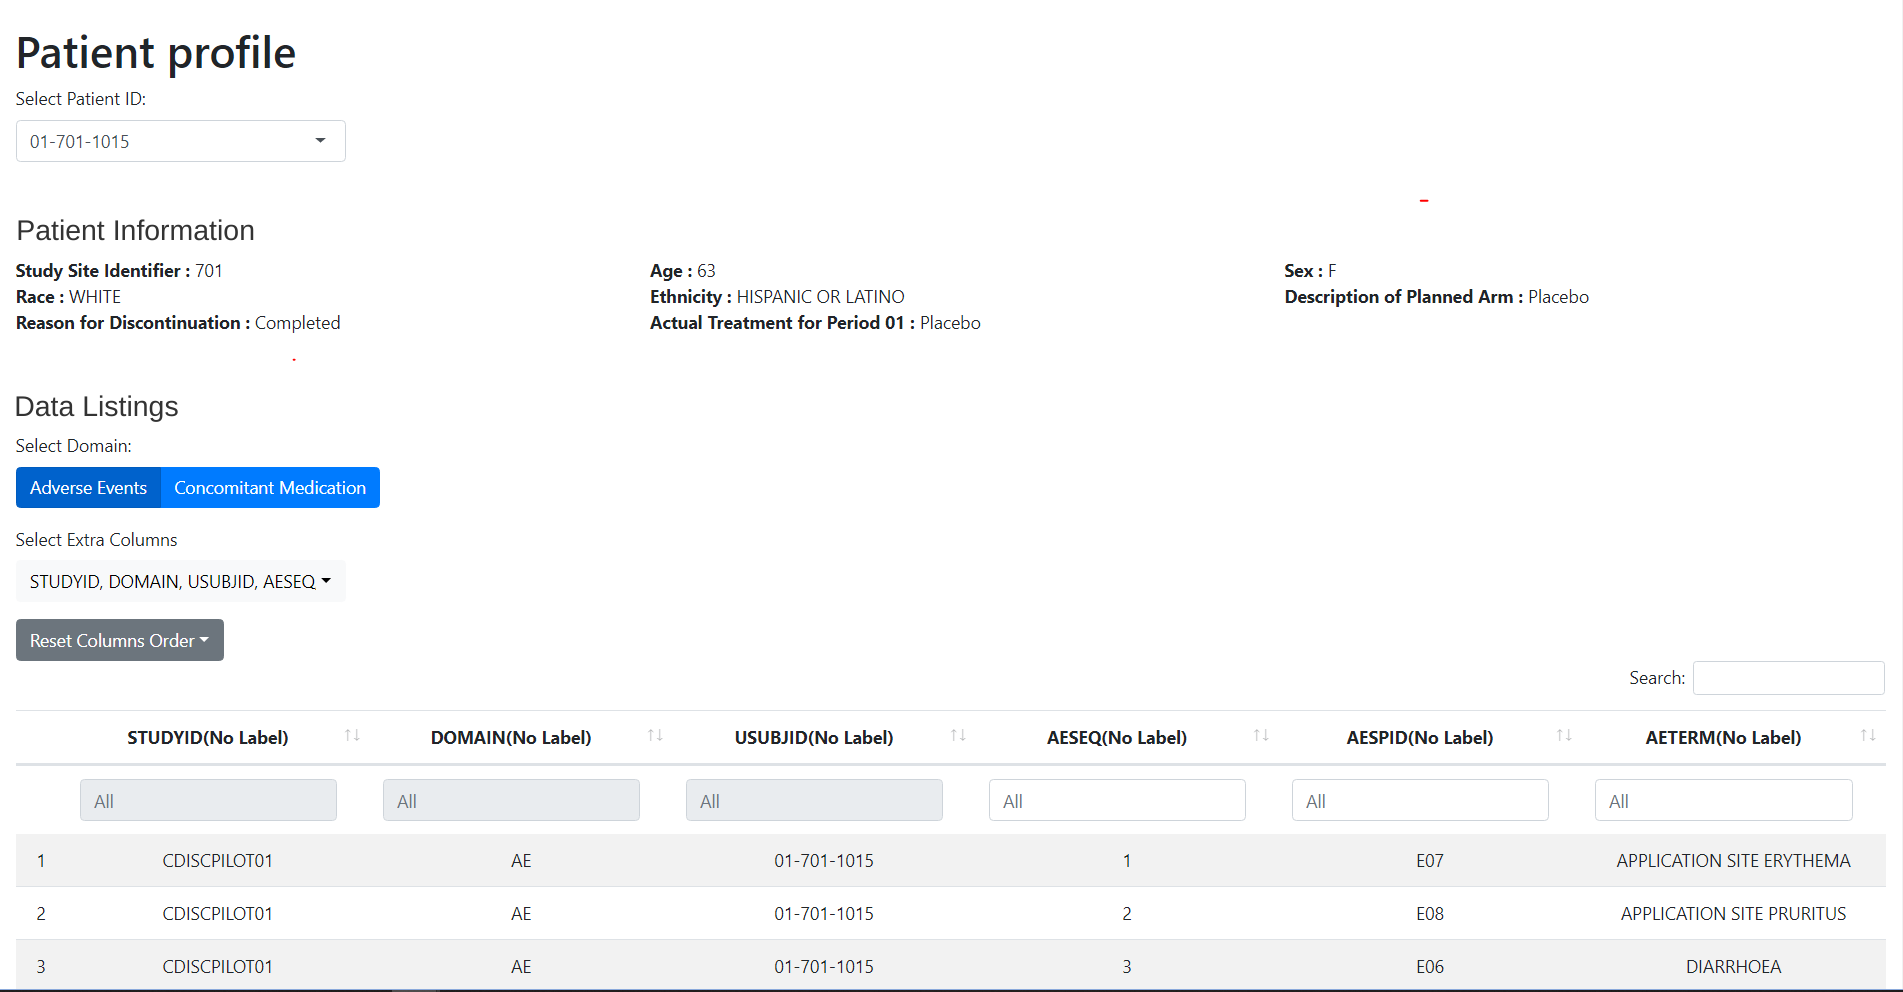
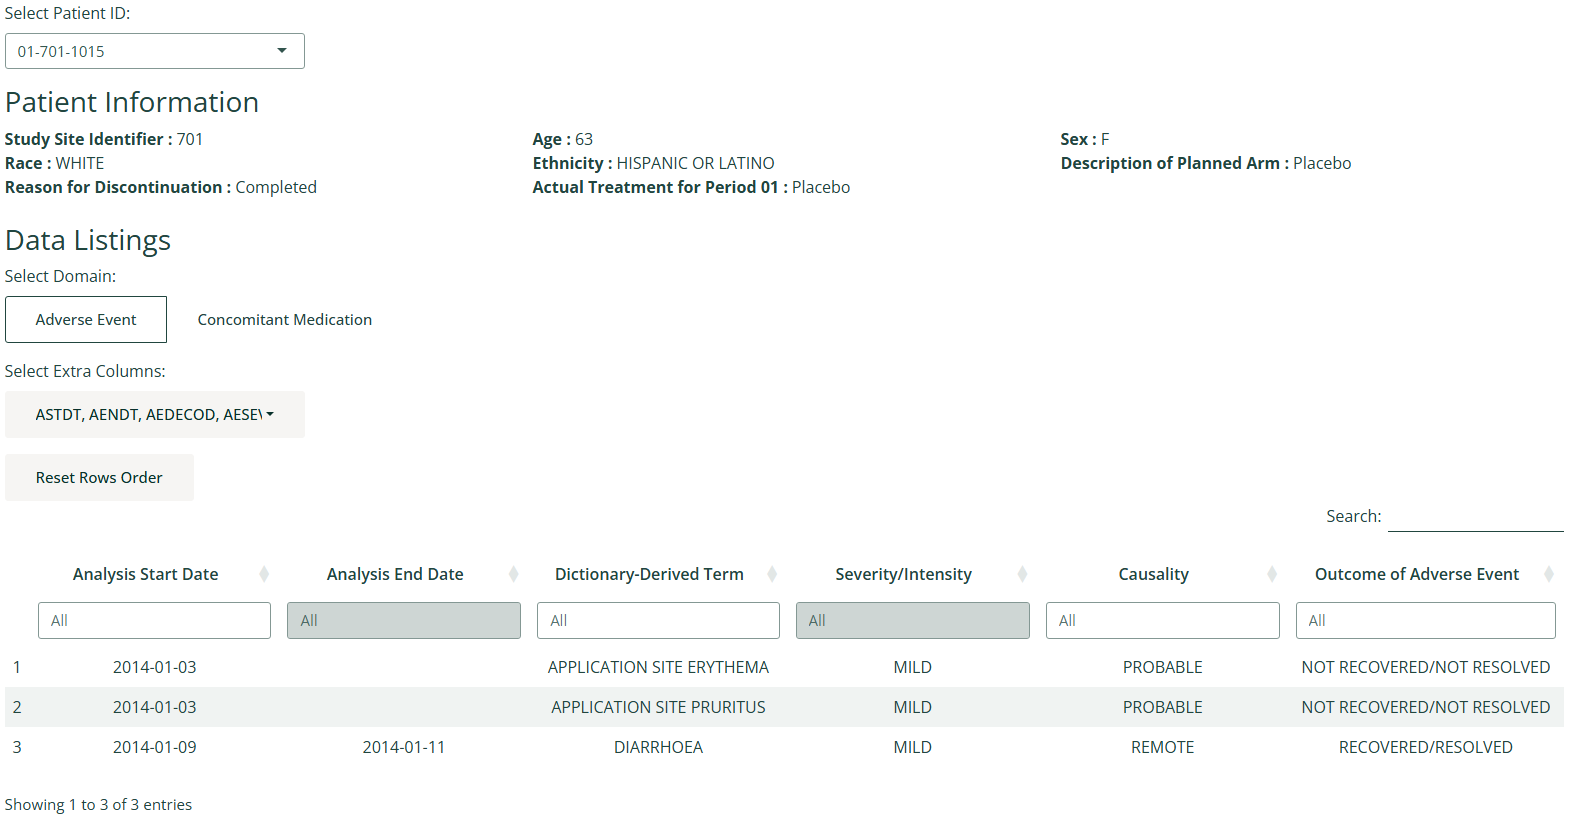
Update DESCRIPTION, NEWS.md and documentation ready for release

diff --git a/README.md b/README.md
@@ -1,8 +1,10 @@
-<!-- README.md is generated from README.Rmd. Please edit that file -->
+
+<!-- README.md is generated from README.Rmd using devtools::build_readme(). Please only edit README.Rmd -->
 
 # dv.papo
 
 <!-- badges: start -->
+
 <!-- badges: end -->
 
 DaVinci’s `dv.papo` module shows patient information on a subject-level
@@ -12,10 +14,11 @@ It can produce listings as well as a variety of plots. Those include
 events over time (adverse events, concomitant medications, …) or
 point-like events (lab values, vital sign measurements, …).
 
-It is no limited to one data source, thus it can handle data from either
-ADAM, or SDTM.
+It is not limited to one data source, thus it can handle data from
+either ADAM, or SDTM.
 
-![](man/figures/patient_profile_app.png)
+<img src="man/figures/patient_profile_app.png"
+style="border: 1px solid lightgray; border-radius:4px;" />
 
 Other DaVinci modules can direct `mod_patient_profile` to select and
 display information associated to any particular subject ID. When the

diff --git a/NEWS.md b/NEWS.md
@@ -1,17 +1,8 @@
-# dv.papo 2.2.0-9003
+# dv.papo 2.2.1
 
 - Assign timeline upper limit to `Sys.Date()` when participation date is included but is missing.
-
-# dv.papo 2.2.0-9002
-
 - Enable zoom option on graphical display.
-
-# dv.papo 2.2.0-9001
-
 - Wrap decode column into no more than two lines (to avoid overlap).
-
-# dv.papo 2.2.0-9000
-
 - [NOT USER-FACING] Tweak lintr rules.
 
 # dv.papo 2.2.0
